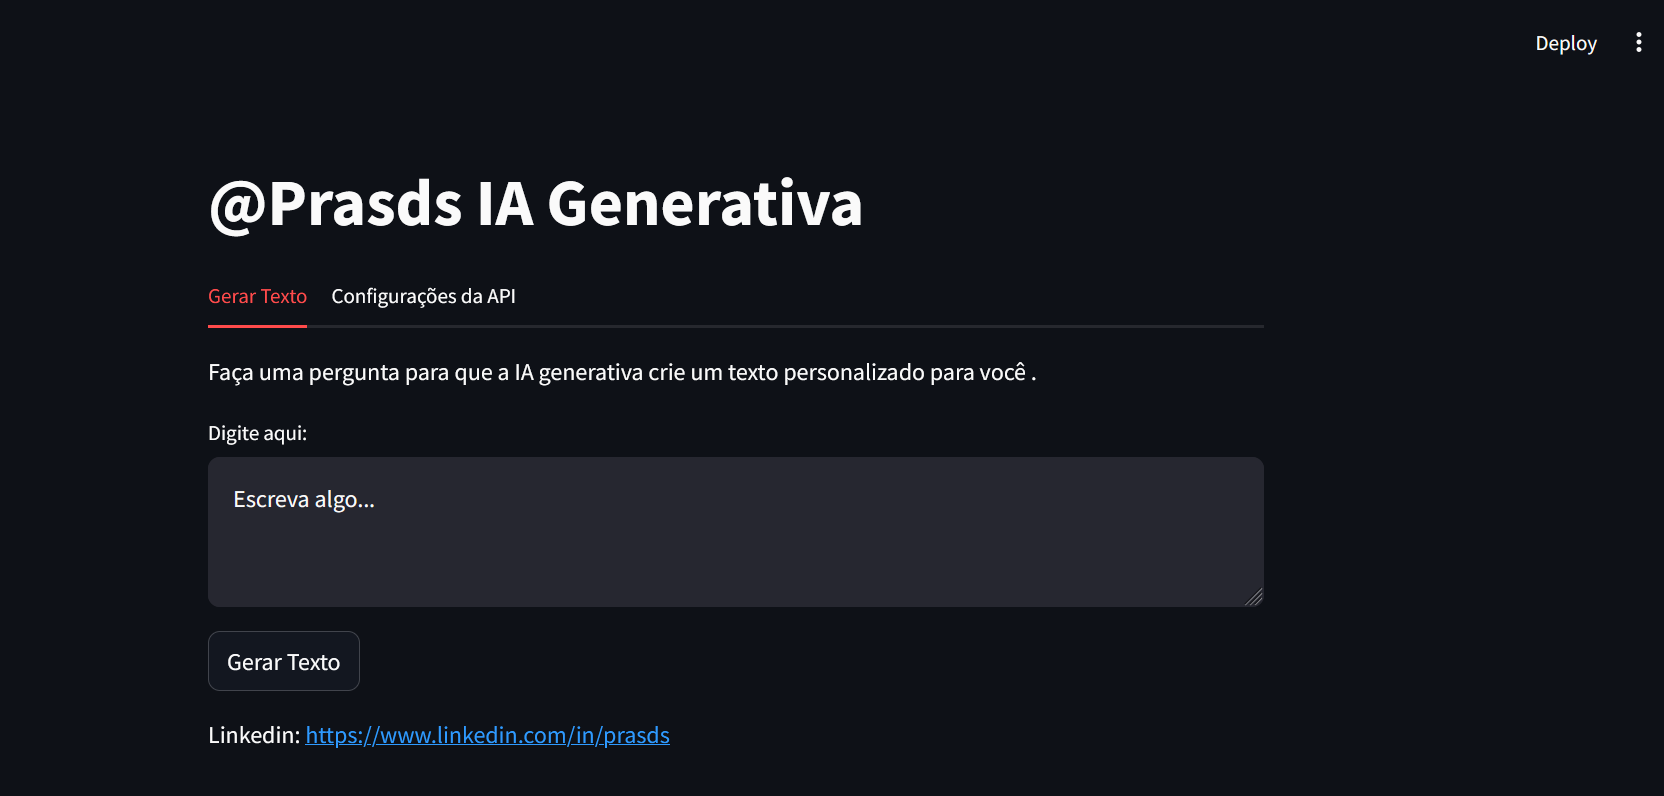
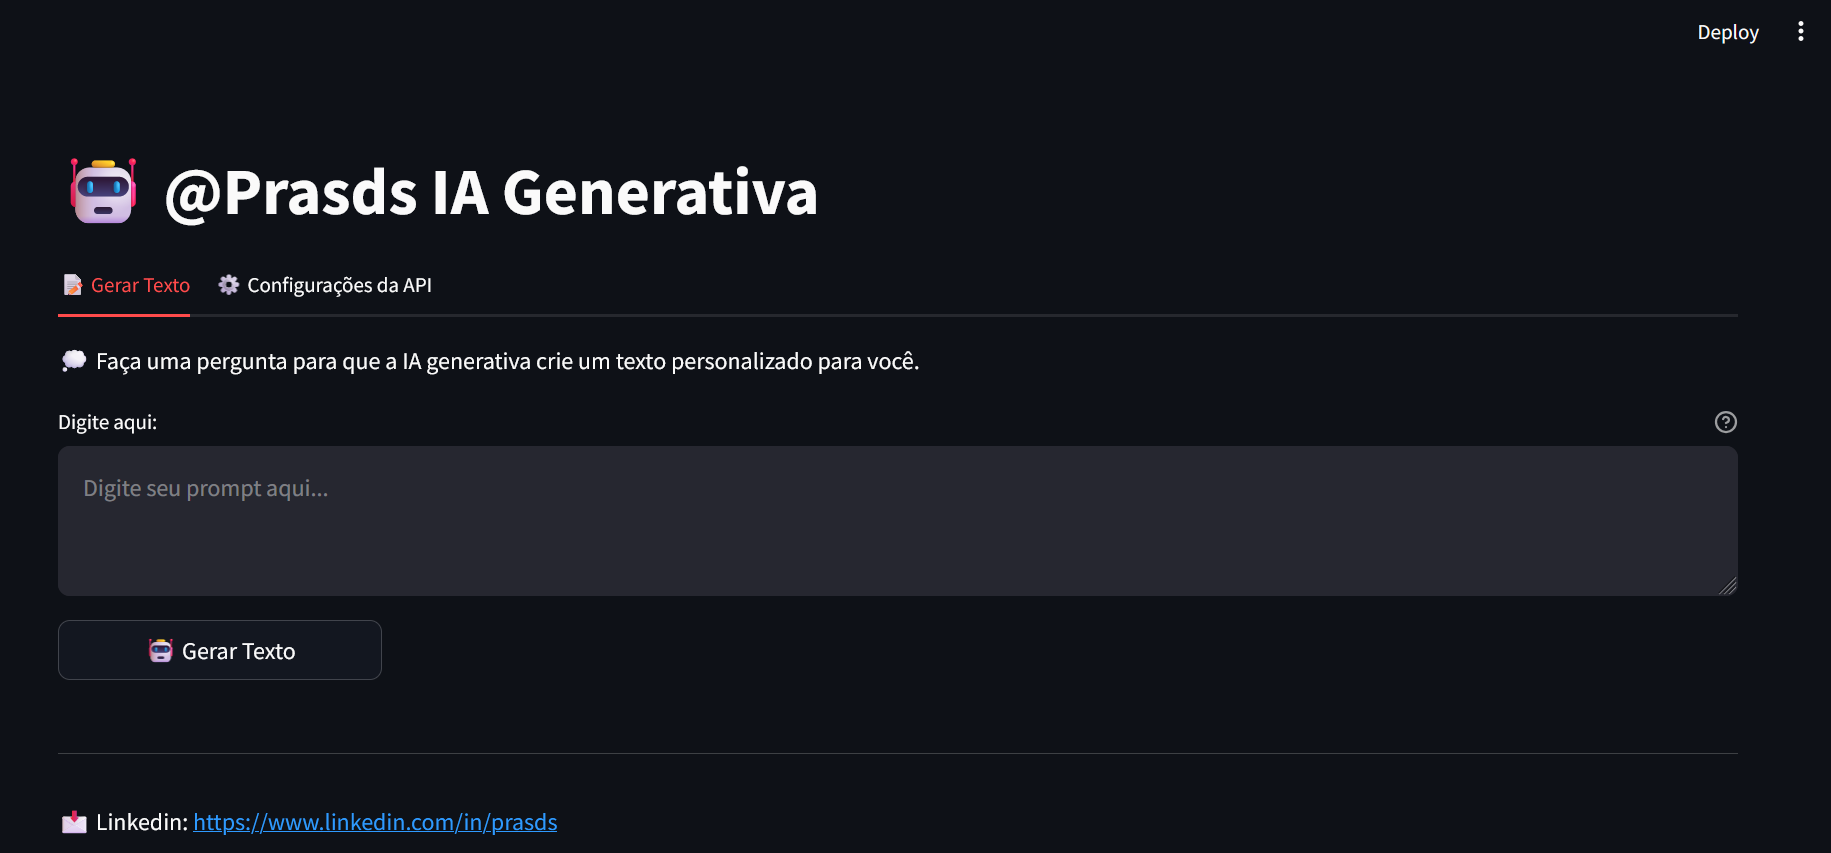
atualização de pacotes

diff --git a/src/app_deepseek.py b/src/app_deepseek.py
@@ -1,57 +1,173 @@
 import streamlit as st
 import requests
+from typing import Optional, Dict, Any
+import logging
 
-# Interface do Streamlit
-st.title("@Prasds IA Generativa")
-#st.markdown("https://www.linkedin.com/in/prasds/")
+# Configuração de logging
+logging.basicConfig(level=logging.INFO)
+logger = logging.getLogger(__name__)
 
-# Abas para separar a geração de texto e as configurações da API
-tab1, tab2 = st.tabs(["Gerar Texto", "Configurações da API"])
+class AIGenerator:
+    def __init__(self):
+        # URL atualizada da API DeepSeek
+        self.default_api_url = "https://api.deepseek.ai/v1/completions"
+        self.max_tokens = 150
+        self.temperature = 0.7
+        self.model = "deepseek-chat"  # modelo padrão
 
-# Função para gerar texto com a IA do DeepSeek-R1
-def generate_text(prompt, api_url, api_key):
-    headers = {
-        "Authorization": f"Bearer {api_key}",
-        "Content-Type": "application/json"
-    }
-    data = {
-        "prompt": prompt,
-        "max_tokens": 150,
-        "temperature": 0.7
-    }
-    response = requests.post(api_url, json=data, headers=headers)
-    if response.status_code == 200:
-        return response.json().get("choices", [{}])[0].get("text", "").strip()
-    else:
-        st.error("Erro ao gerar texto. Verifique sua chave de API e tente novamente.")
-        return ""
+    def generate_text(self, prompt: str, api_url: str, api_key: str) -> Optional[str]:
+     
+        headers = {
+            "Authorization": f"Bearer {api_key}",
+            "Content-Type": "application/json"
+        }
+        
+        data = {
+            "model": self.model,
+            "messages": [{"role": "user", "content": prompt}],
+            "max_tokens": self.max_tokens,
+            "temperature": self.temperature
+        }
+        
+        try:
+            response = requests.post(api_url, json=data, headers=headers)
+            
+            # Verifica o status code primeiro
+            if response.status_code == 404:
+                st.error("❌ URL da API inválida. Verifique se a URL está correta nas configurações.")
+                return None
+            elif response.status_code == 401:
+                st.error("❌ Chave da API inválida. Verifique suas credenciais.")
+                return None
+            
+            # Só tenta processar a resposta se o status code for 200
+            response.raise_for_status()
+            result = response.json()
+            
+            if "choices" in result and len(result["choices"]) > 0:
+                return result["choices"][0]["message"]["content"].strip()
+            
+            st.error("❌ Resposta da API não contém o texto gerado.")
+            return None
+            
+        except requests.exceptions.ConnectionError as e:
+            logger.error(f"Erro de conexão: {str(e)}")
+            st.error("❌ Não foi possível conectar ao servidor. Verifique sua conexão com a internet.")
+            return None
+        except requests.exceptions.Timeout as e:
+            logger.error(f"Timeout na requisição: {str(e)}")
+            st.error("❌ A requisição excedeu o tempo limite. Tente novamente.")
+            return None
+        except requests.exceptions.RequestException as e:
+            logger.error(f"Erro na requisição: {str(e)}")
+            st.error(f"❌ Erro ao comunicar com a API: {str(e)}")
+            return None
+        except ValueError as e:
+            logger.error(f"Erro ao decodificar JSON: {str(e)}")
+            st.error("❌ Erro ao processar a resposta da API. Formato inválido.")
+            return None
+        except Exception as e:
+            logger.error(f"Erro inesperado: {str(e)}")
+            st.error("❌ Ocorreu um erro inesperado. Tente novamente.")
+            return None
 
-# Aba 1: Geração de Texto
-with tab1:
-    st.write("Faça uma pergunta para que a IA generativa crie um texto personalizado para você .")
+def init_session_state():
+    #Inicializa variáveis da sessão se não existirem
+    if "api_url" not in st.session_state:
+        st.session_state.api_url = ""
+    if "api_key" not in st.session_state:
+        st.session_state.api_key = ""
 
-    # Entrada do usuário
-    user_prompt = st.text_area("Digite aqui:", "Escreva algo...")
+def validate_api_settings(api_url: str, api_key: str) -> bool:
+    #Valida as configurações da API
+    if not api_url or not api_url.startswith(("http://", "https://")):
+        st.error("❌ A URL da API não é válida. Configure corretamente na aba 'Configurações da API'.")
+        return False
+    if not api_key:
+        st.error("❌ A chave de API não foi fornecida. Configure corretamente na aba 'Configurações da API'.")
+        return False
+    return True
 
-    # Botão para gerar texto
-    if st.button("Gerar Texto"):
-        with st.spinner("Gerando texto..."):
-            # Recupera as configurações da API da sessão
-            api_url = st.session_state.get("api_url", "https://api.deepseek.com/v1/generate")
-            api_key = st.session_state.get("api_key", "sua_chave_api_aqui")
-            generated_text = generate_text(user_prompt, api_url, api_key)
-            st.write(generated_text)
+def render_generation_tab(ai_generator: AIGenerator):
+    #Renderiza a aba de geração de texto
+    st.write("💭 Faça uma pergunta para que a IA generativa crie um texto personalizado para você.")
+    
+    user_prompt = st.text_area(
+        "Digite aqui:",
+        "",
+        max_chars=500,
+        placeholder="Digite seu prompt aqui...",
+        help="Máximo de 500 caracteres"
+    )
+    
+    col1, col2 = st.columns([1, 4])
+    with col1:
+        generate_button = st.button("🤖 Gerar Texto", use_container_width=True)
+    
+    if generate_button and user_prompt:
+        with st.spinner("🔄 Gerando texto..."):
+            if validate_api_settings(st.session_state.api_url, st.session_state.api_key):
+                generated_text = ai_generator.generate_text(
+                    user_prompt,
+                    st.session_state.api_url,
+                    st.session_state.api_key
+                )
+                if generated_text:
+                    st.success("✨ Texto gerado com sucesso!")
+                    st.write(generated_text)
 
-# Aba 2: Configurações da API
-with tab2:
-    st.write("Configurações da API do DeepSeek-R1")
+def render_settings_tab(ai_generator: AIGenerator):
+    #Renderiza a aba de configurações
+    st.write("⚙ Configurações da API do DeepSeek")
+    
+    
+    
+    api_url = st.text_input(
+        "URL da API",
+        value=st.session_state.get("api_url", ai_generator.default_api_url),
+        placeholder="https://api.deepseek.ai/v1/completions"
+    )
+    
+    api_key = st.text_input(
+        "Chave da API",
+        value=st.session_state.get("api_key", ""),
+        type="password",
+        placeholder="Insira sua chave de API"
+    )
+    
+    col1, col2 = st.columns([1, 4])
+    with col1:
+        if st.button("💾 Salvar", use_container_width=True):
+            if api_url.startswith(("http://", "https://")):
+                st.session_state.api_url = api_url.strip()
+                st.session_state.api_key = api_key.strip()
+                st.success("✅ Configurações salvas com sucesso!")
+            else:
+                st.error("❌ A URL da API não é válida. Certifique-se de que ela começa com 'http://' ou 'https://'.")
 
-    # Campos para configurar a URL da API e a chave de API
-    api_url = st.text_input("URL da API", "https://api.deepseek.com/v1/generate")
-    api_key = st.text_input("Chave da API", "sua_chave_api_aqui", type="password")
+def main():
+    st.set_page_config(
+        page_title="@Prasds IA Generativa",
+        page_icon="🤖",
+        layout="wide"
+    )
+    
+    st.title("🤖 @Prasds IA Generativa")
+    
+    init_session_state()
+    ai_generator = AIGenerator()
+    
+    tab1, tab2 = st.tabs(["📝 Gerar Texto", "⚙ Configurações da API"])
+    
+    with tab1:
+        render_generation_tab(ai_generator)
+    
+    with tab2:
+        render_settings_tab(ai_generator)
+    
+    st.markdown("---")
+    #st.markdown("📫 Contato: [LinkedIn](https://www.linkedin.com/in/prasds)")
+    st.markdown("📩 Linkedin:   https://www.linkedin.com/in/prasds")
 
-    # Botão para salvar as configurações
-    if st.button("Salvar Configurações"):
-        st.session_state["api_url"] = api_url
-        st.session_state["api_key"] = api_key
-        st.success("Configurações salvas com sucesso!")
+if __name__ == "__main__":
+    main()

diff --git a/main.py b/main.py
@@ -1,0 +1,15 @@
+
+from dotenv import load_dotenv
+import os
+
+# Carrega as variáveis de ambiente do arquivo .env
+load_dotenv()
+
+# Acessa as variáveis de ambiente
+DEEPSEEK_API_KEY = os.getenv("DEEPSEEK_API_KEY")
+DEEPSEEK_API_URL = os.getenv("DEEPSEEK_API_URL")
+
+# Verifica se as variáveis foram carregadas corretamente
+if not DEEPSEEK_API_KEY or not DEEPSEEK_API_URL:
+    raise ValueError("Chave da API ou URL não configuradas no arquivo .env")
+   
